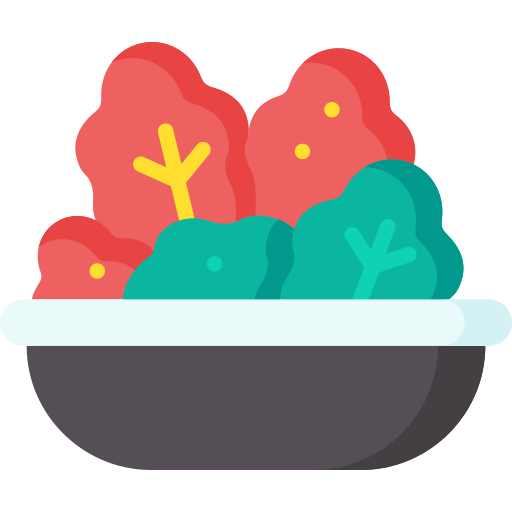
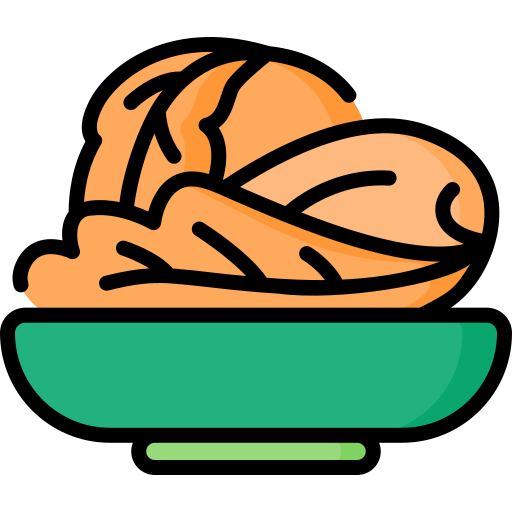
chore: 김치 아이콘 교체 (Flaticon kimchi_12971418)

diff --git a/docs/flaticon-icons.md b/docs/flaticon-icons.md
@@ -60,7 +60,7 @@
 | `cooking.png` | 자취요리(카테고리) | [pan](https://www.flaticon.com/free-icon/pan_2702519) |
 | `coin.png` | 저예산(카테고리) | [dollar](https://www.flaticon.com/free-icon/dollar_1490853) |
 | `stopwatch.png` | 빠른조리(카테고리) | [stopwatch](https://www.flaticon.com/free-icon/stopwatch_2055568) |
-| `kimchi.png` | 김치 | [kimchi](https://www.flaticon.com/free-icon/kimchi_7923227) |
+| `kimchi.png` | 김치 | [kimchi](https://www.flaticon.com/free-icon/kimchi_12971418) |
 | `green-onion.png` | 대파 | [leek](https://www.flaticon.com/free-icon/leek_5346195) |
 | `tofu.png` | 두부 | [tofu](https://www.flaticon.com/free-icon/tofu_1687170) |
 | `doenjang.png` | 된장 | [miso](https://www.flaticon.com/free-icon/miso_7472432) |
